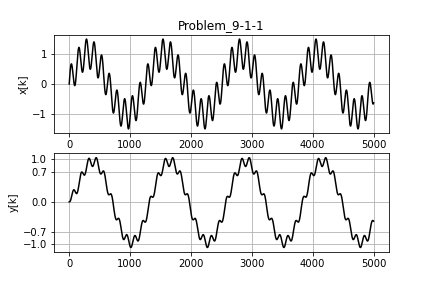
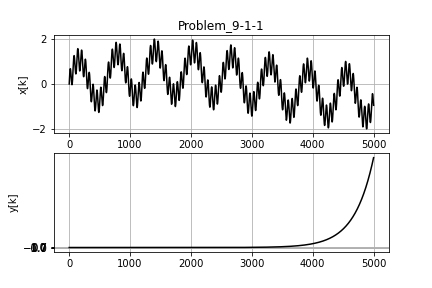
11-16-2023

Changed region(s): [[0.0903, 0.125, 0.9028, 0.4688], [0.0602, 0.5312, 0.9028, 0.875]]

diff --git a/untitled0.py b/untitled0.py
@@ -1,76 +1,100 @@
-#!/usr/bin/env python3
-# -*- coding: utf-8 -*-
-"""
-Created on Wed Nov  8 10:48:29 2023
-
-@author: void
-"""
-
-""" Example 9.1.1"""
+""" Find_FIR.py """
 import matplotlib.pyplot as plt
 import numpy as np
+from scipy import signal as sig
 from math import pi, exp, cos, sin, log, sqrt
-import cmath
-NN = 1000
-phi = np.linspace(0,2*pi,NN)
-dt = .01
-z = np.zeros(NN, dtype = np.complex)
-H = np.zeros(NN, dtype = np.complex)
-"""---- One pole filter (Eq, 9.1.3) ------------"""
-for n in range(0,NN):
-    z = cmath.exp(1j*phi[n])
-    H[n] = 0.095*z/(z - .905)
-plt.subplot(211)
-plt.semilogx((180/pi)*phi,20*np.log10(H),'k')
-#plt.plot((180/pi)*phi,abs(H))
-plt.axis([1, 100, -40, 10])
-plt.ylabel('|H| ')
-plt.yticks([-40,-20,-3,0])
-plt.axvline(5.7,color='k')
-plt.text(3,-15,'$\phi$ = {}'.format(round(5.7,3)),fontsize=12)
-plt.axvline(57,color='k')
-plt.text(30,-15,'$\phi$ = {}'.format(round(57,3)),fontsize=12)
-plt.title('Example_9-1-1')
-plt.grid(which='both')
-aaa = np.angle(H)
-#for n in range(NN):
-# if aaa[n] > pi:
-# aaa[n] = aaa[n] - 2*pi
-plt.subplot(212)
-plt.semilogx((180/pi)*phi,(180/pi)*aaa,'k')
-#plt.plot((180/pi)*phi,(180/pi)*aaa,'k')
-plt.ylabel('/H (degrees)')
-plt.axis([1, 100, -90, 0])
-plt.yticks([-90,-45,0])
-#plt.axis([.1,100, -90,90])
-#plt.yticks([-90,-45,0])
-#plt.xticks([1,5.7,10,100])
-plt.axvline(5.7,color='k')
-plt.axvline(57,color='k')
-#plt.text(.3,-70,'$\phi$ = {}'.format(round(5.7,2)),fontsize=12)
-plt.grid(which='both')
-plt.xlabel('$\phi$ (degrees)')
-plt.savefig('H_zbode.png',dpi=300)
-plt.show()
-"""This is the time-domain simulation of section 9.1.3"""
-MM = 500
-x = np.zeros(MM)
-y = np.zeros(MM)
-w1 = 5
-w2 = 100
-for k in range(1,MM):
-    x[k] = 1.*sin(w1*dt*k) + sin(w2*dt*k)
-    y[k] = .905*y[k-1] + .095*x[k]
-plt.subplot(211)
-plt.plot(x,'k')
-plt.ylabel('x[k]')
-plt.title('Example_9-1-1')
+NN = 100
+N2 = int(NN/2)
+x = np.zeros(NN)
+y = np.zeros(NN)
+dt = .002
+TT = np.linspace(0,dt*(NN-1),NN)
+DF = 1/(dt*NN)
+FF = np.linspace(0,DF*(NN-1),NN)
+f1 = 20
+f2 = 80
+f3 = 150
+freq1 = 2*pi*f1
+freq2 = 2*pi*f2
+freq3 = 2*pi*f3
+x = np.sin(freq1*TT) + 1*np.sin(freq2*TT) + 1*np.sin(freq3*TT)
+plt.subplot(321)
+plt.plot(TT,x,'k')
+plt.axis([0,NN*dt,-2.5,2.5])
+plt.text(5,-15,'$\phi$ = {}'.format(round(14,3)),fontsize=12)
+plt.title('Find_FIR')
+plt.ylabel('a). x[k]')
+plt.xlabel('T (sec)')
 plt.grid()
-plt.subplot(212)
-plt.plot(y,'k')
-plt.ylabel('y[k]')
-plt.axis([0,MM,-1.2,1.2])
-plt.yticks([-1,-.7,0,.7,1])
+X = (1/NN)*np.fft.fft(x)
+""" Create the filter """
+H = np.zeros(NN)
+""" Rectangular Low pass """
+for n in range(8):
+    H[n] = 1
+""" Low pass """
+
+#for n in range(4):
+# H[n] = 1
+#for n in range(4,16):
+# H[n] = exp(-.5*((n-4)/4)**2)
+""" Band pass """
+#for n in range(N2):
+# H[n] = exp(-.5*((n-16)/4)**2)
+""" High pass """
+#for n in range(15):
+# H[n] = exp(-.5*((n-15)/4)**2)
+#for n in range(15,N2+2):
+# H[n] = 1
+""" Reflect the positive frequencies to the right side """
+for n in range(1,N2-1):
+    H[NN-n] = H[n]
+    Y = H*X
+plt.subplot(322)
+plt.plot(FF,abs(X),'k',label='X')
+plt.plot(FF,H,'k--',label='H')
+plt.legend(loc='upper right')
+plt.ylabel('b). H(w),X(w)')
+plt.xlabel('Freq (Hz)')
 plt.grid()
-plt.savefig('Time_plot.png')
+plt.axis([0,200,0,1.1])
+plt.xticks([20,80,150])
+h = np.fft.ifft(H)
+plt.subplot(323)
+plt.plot(h.real,'k')
+plt.xlabel('k')
+plt.ylabel('c). h[k]')
+plt.grid()
+plt.axis([0,NN,-.1,.2])
+M = 20
+hh = np.zeros(NN)
+""" Move the filter to the left side """
+for n in range(M):
+    hh[n+M] = h[n].real
+    hh[M-n] = hh[M+n]
+plt.subplot(324)
+plt.plot(hh,'ok')
+plt.axis([0 ,2*M,-.1,.25])
+plt.xlabel('k')
+plt.ylabel('d). hh[k]')
+plt.grid()
+""" Convolve hh and x """
+yy=np.convolve(hh,x)
+y = np.zeros(NN)
+for n in range(NN):
+    y[n] = yy[n+M]
+plt.subplot(325)
+plt.plot(TT,y,'k')
+plt.ylabel('e). y[k]')
+plt.xlabel('T (sec)')
+plt.grid()
+Y = (1/NN)*np.fft.fft(y)
+plt.subplot(326)
+plt.plot(FF,abs(Y),'k')
+plt.axis([0,200,-.1,.6])
+plt.xticks([0,20,80,150])
+plt.ylabel('f). Y[w]')
+plt.xlabel('Freq (Hz)')
+plt.grid()
+plt.savefig('f.png',dpi=300)
 plt.show()

diff --git a/FindFIR.py b/FindFIR.py
@@ -1,120 +1,97 @@
-""" Find_FIR.py """
 
+""" Find_FIR.py """
 import matplotlib.pyplot as plt
 import numpy as np
 from scipy import signal as sig
 from math import pi, exp, cos, sin, log, sqrt
-
 NN = 100
+
 N2 = int(NN/2)
 x = np.zeros(NN)
 y = np.zeros(NN)
-
 dt = .002
 TT = np.linspace(0,dt*(NN-1),NN)
 DF = 1/(dt*NN)
 FF = np.linspace(0,DF*(NN-1),NN)
-
 f1 = 20
 f2 = 80
 f3 = 150
-freq1 = 2*pi*f1
-freq2 = 2*pi*f2
-freq3 = 2*pi*f3
-
-x = np.sin(freq1*TT) + 1*np.sin(freq2*TT) + 1*np.sin(freq3*TT)
-           
-plt.subplot(321)
+freq1 =0.1
+freq2 = 1
+freq3 = 10
+x = 0.5*np.sin(freq1*TT) + 1*np.sin(freq2*TT) + 0.5*np.sin(freq3*TT)
+plt.figure(figsize=[5,5])
+plt.subplot(3,2,1)
 plt.plot(TT,x,'k')
 plt.axis([0,NN*dt,-2.5,2.5])
-plt.text(5,-15,'$\phi$ = {}'.format(round(14,3)),fontsize=12)
+#plt.text(5,-15,'$\phi$ = {}'.format(round(14,3)),fontsize=12)
 plt.title('Find_FIR')
 plt.ylabel('a). x[k]')
 plt.xlabel('T (sec)')
 plt.grid()
-
 X = (1/NN)*np.fft.fft(x)
-
-""" Create the filter   """
+""" Create the filter """
 H = np.zeros(NN)
-
-#""" Rectangular Low pass """
-#for n in range(8):
-#    H[n] = 1
-
+""" Rectangular Low pass """
+# for n in range(8):
+#     H[n] = 1
 """ Low pass """
 #for n in range(4):
-#    H[n] = 1
+# H[n] = 1
 #for n in range(4,16):
-#    H[n] =  exp(-.5*((n-4)/4)**2)
-
-""" Band pass """    
-#for n in range(N2):    
-#    H[n] =  exp(-.5*((n-16)/4)**2)
-
-""" High pass """    
-for n in range(20):
-    H[n] =  exp(-.5*((n-20)/4)**2)    
-for n in range(20,N2+2):
-    H[n] = 1
-    
+# H[n] = exp(-.5*((n-4)/4)**2)
+""" Band pass """
+for n in range(N2):
+    H[n] = exp(-.5*((n-1)/4)**2)
+""" High pass """
+#for n in range(15):
+# H[n] = exp(-.5*((n-15)/4)**2)
+#for n in range(15,N2+2):
+# H[n] = 1
 """ Reflect the positive frequencies to the right side """
 for n in range(1,N2-1):
-    H[NN-n] = H[n]  
-    
-Y = H*X   
-
-plt.subplot(322)
+    H[NN-n] = H[n]
+Y = H*X
+plt.subplot(3,2,2)
 plt.plot(FF,abs(X),'k',label='X')
 plt.plot(FF,H,'k--',label='H')
 plt.legend(loc='upper right')
 plt.ylabel('b). H(w),X(w)')
 plt.xlabel('Freq (Hz)')
 plt.grid()
-plt.axis([0,200,0,1.1])
-plt.xticks([20,80,150])
-
+plt.axis([0,2,0,1.1])
+#plt.xticks([20,80,150])
 h = np.fft.ifft(H)
-
 plt.subplot(323)
 plt.plot(h.real,'k')
 plt.xlabel('k')
 plt.ylabel('c). h[k]')
 plt.grid()
 plt.axis([0,NN,-.1,.2])
-
-M = 6
+M = 20
 hh = np.zeros(NN)
-
 """ Move the filter to the left side """
 for n in range(M):
     hh[n+M] = h[n].real
     hh[M-n] = hh[M+n]
-
-plt.subplot(324)
+plt.subplot(3,2,4)
 plt.plot(hh,'ok')
 plt.axis([0 ,2*M,-.1,.25])
 plt.xlabel('k')
 plt.ylabel('d). hh[k]')
 plt.grid()
-
 """ Convolve hh and x """
-
 yy=np.convolve(hh,x)
-
 y = np.zeros(NN)
 for n in range(NN):
     y[n] = yy[n+M]
-
-plt.subplot(325)
+plt.subplot(3,2,5)
 plt.plot(TT,y,'k')
 plt.ylabel('e). y[k]')
 plt.xlabel('T (sec)')
 plt.grid()
-
 Y = (1/NN)*np.fft.fft(y)
-
-plt.subplot(326)
+plt.subplot(3,2,6)
 plt.plot(FF,abs(Y),'k')
 plt.axis([0,200,-.1,.6])
 plt.xticks([0,20,80,150])

diff --git a/Example_9_11.py b/Example_9_11.py
@@ -11,29 +11,33 @@ import matplotlib.pyplot as plt
 import numpy as np
 from math import pi, exp, cos, sin, log, sqrt
 import cmath
-NN = 1000
+NN = 10000
 phi = np.linspace(0,2*pi,NN)
 dt = .01
 z = np.zeros(NN, dtype = complex)
 H = np.zeros(NN, dtype = complex)
+a = 0.00010
+c = 1
+T = 0.1
+k= 1
 """---- One pole filter (Eq, 9.1.3) ------------"""
 for n in range(0,NN):
     z = cmath.exp(1j*phi[n])
     try:
-        H[n] = (0.001*z)/(z**2-1.921*z + .922)
+        H[n] = k*(a*T*z**2-a*T*z)/((c*T**2+1)*z**2-(a*T+2)*z+1)
     except:
         print('woops')
 plt.subplot(211)
 plt.semilogx((180/pi)*phi,20*np.log10(H),'k')
 #plt.plot((180/pi)*phi,abs(H))
-plt.axis([1, 100, -40, 10])
+plt.axis([0.1, 100, -40, 10])
 plt.ylabel('|H| ')
 plt.yticks([-40,-20,-3,0])
 plt.axvline(5.7,color='k')
 plt.text(3,-15,'$\phi$ = {}'.format(round(5.7,3)),fontsize=12)
 plt.axvline(57,color='k')
 plt.text(30,-15,'$\phi$ = {}'.format(round(57,3)),fontsize=12)
-plt.title('Problem_9-1-1')
+plt.title('Problem_9-1-3')
 plt.grid(which='both')
 aaa = np.angle(H)
 #for n in range(NN):
@@ -63,13 +67,8 @@ w1 = 5
 w2 = 100
 for k in range(1,MM):
     try:
-<<<<<<< HEAD
-        x[k] = 0.5*sin(5*dt*k) + sin(0.5*dt*k)
-        y[k] = 0.001*x[k-1]+1.921*y[k-1]-0.922*y[k-2]
-=======
-        x[k] = 1.*sin(w1*dt*k) + sin(w2*dt*k)
-        y[k] = 0.002*x[k]+1.97*y[k-1]-0.97*y[k-2]
->>>>>>> f4e01056eee8649c40f909ccdfdd93df79312132
+        x[k] = 0.5*sin(0.1*dt*k) + 0.5*sin(10*dt*k)+sin(dt*k)
+        y[k] = (a*T)*x[k]-(a*T)*x[k-1]-y[k-2]+((a*T)+2)*y[k-1]+(c*T**2+1)*y[k]
     except:
         print(k)
 plt.subplot(2,1,1)

diff --git a/Bandpass.py b/Bandpass.py
@@ -21,8 +21,8 @@ from math import pi, exp, cos, sin, log, sqrt
 from control import margin
 from control import tf
 
-wc = 1e3
-W = 300
+wc = 1
+W = 1
 
 n = 2
 
